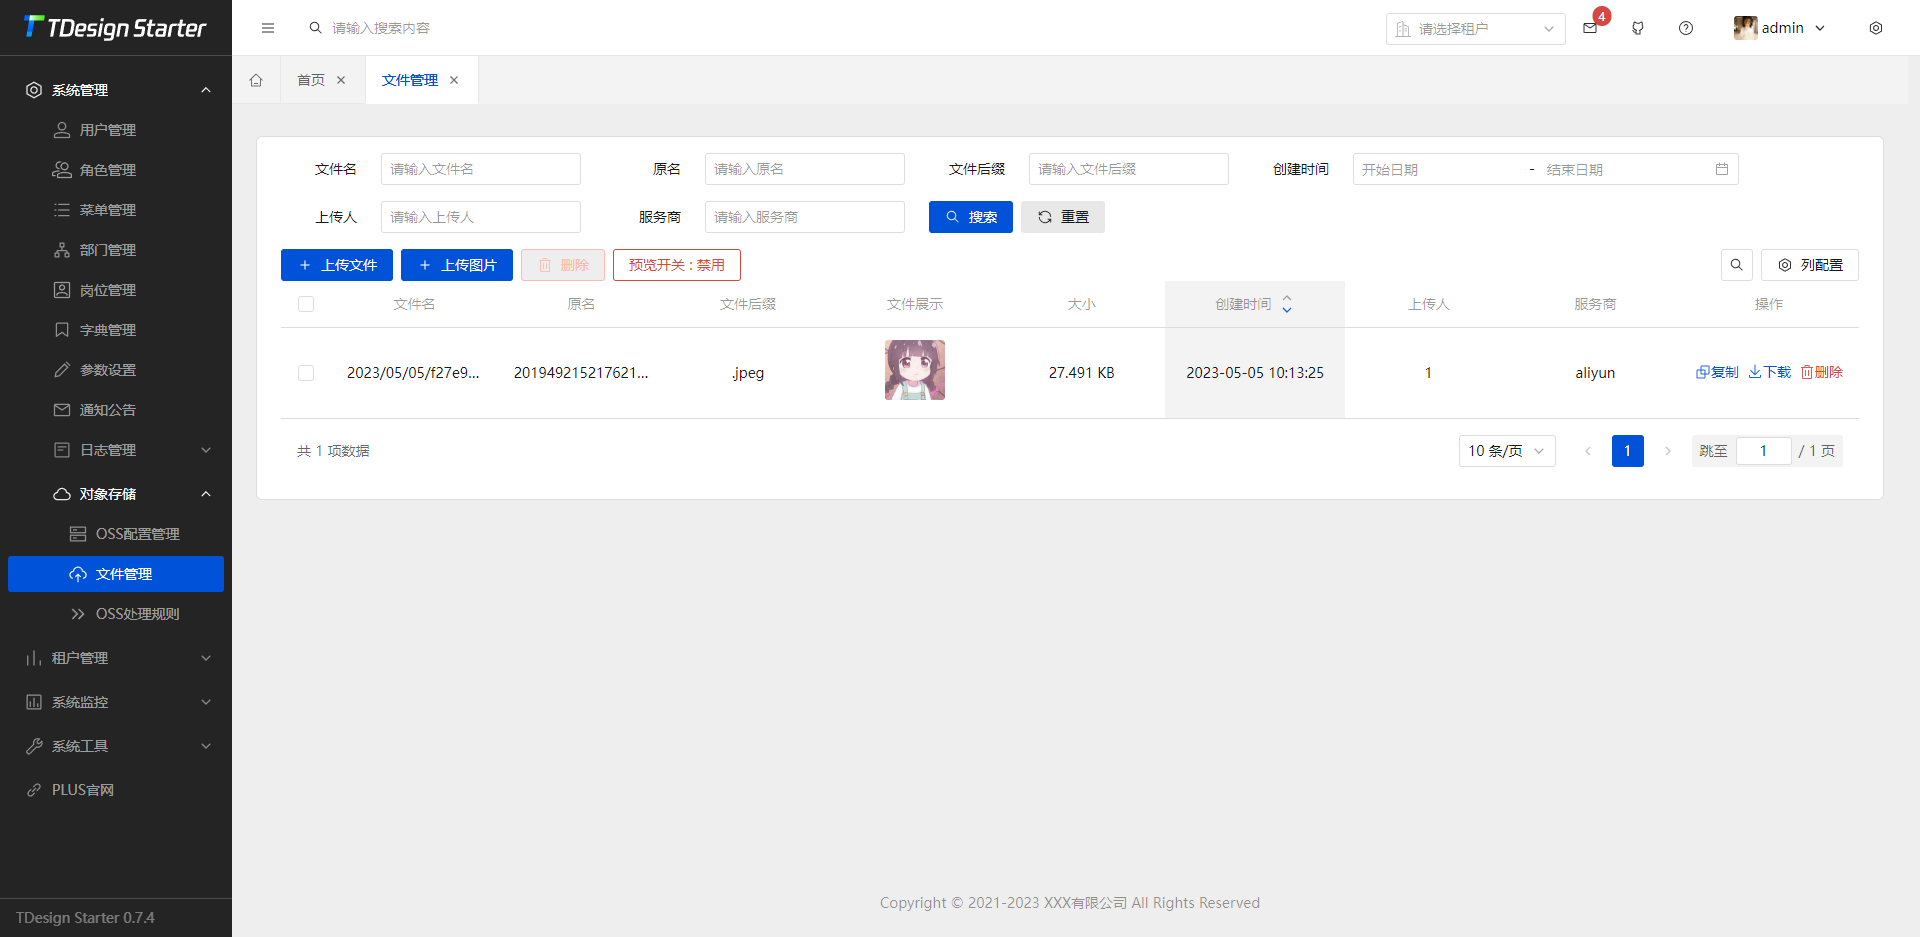
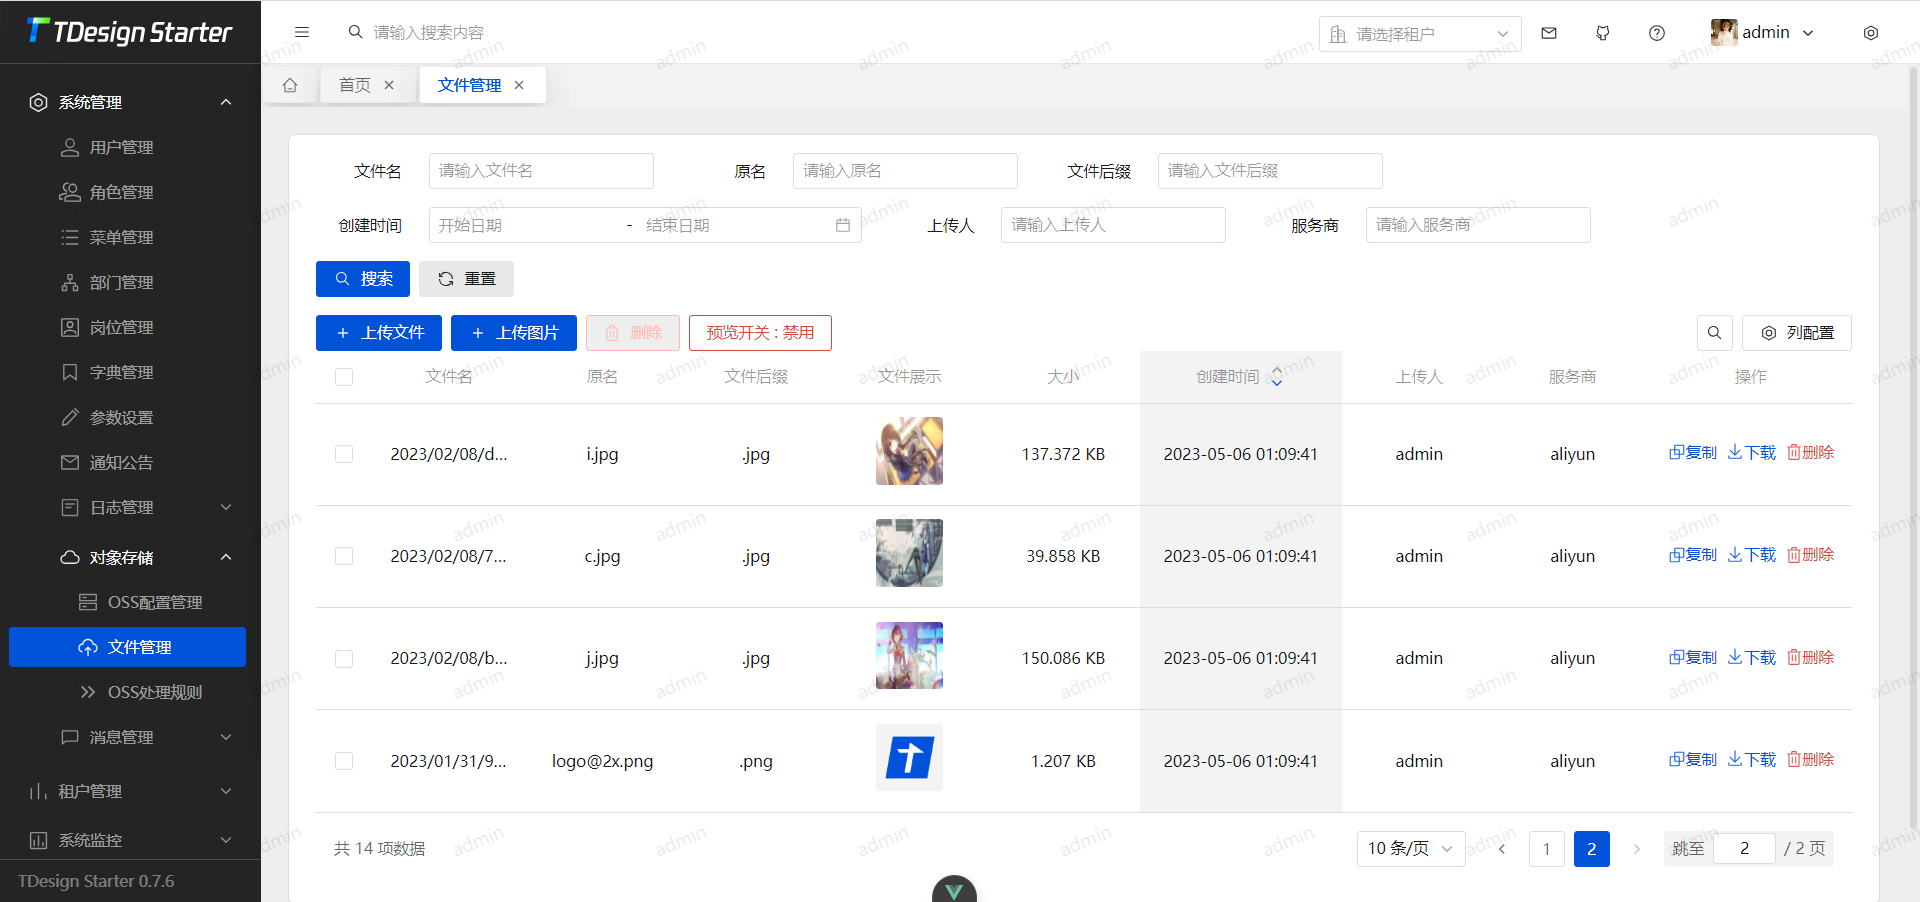
doc: 更新README.md、截图

diff --git a/README.md b/README.md
@@ -71,30 +71,34 @@
 
 ## 业务功能
 
-| 功能      | 介绍                                    |
-|---------|---------------------------------------|
-| 租户管理    | 配置系统租户，支持 SaaS 场景下的多租户功能。             |
-| 用户管理    | 用户是系统操作者，该功能主要完成系统用户配置。               |
-| 部门管理    | 配置系统组织机构（公司、部门、小组），树结构展现支持数据权限。       |
-| 岗位管理    | 配置系统用户所属担任职务。                         |
-| 菜单管理    | 配置系统菜单，操作权限，按钮权限标识等。                  |
-| 角色管理    | 角色菜单权限分配、设置角色按机构进行数据范围权限划分。           |
-| 字典管理    | 对系统中经常使用的一些较为固定的数据进行维护。               |
-| 参数管理    | 对系统动态配置常用参数。                          |
-| 通知公告    | 系统通知公告信息发布维护。                         |
-| 操作日志    | 系统正常操作日志记录和查询；系统异常信息日志记录和查询。          |
-| 登录日志    | 系统登录日志记录查询包含登录异常。                     |
-| OSS配置   | 系统文件上传、下载服务配置                         |
-| 文件管理    | 系统文件上传、下载等管理。                         |
-| OSS处理规则 | 处理例如图片压缩配置                            |
-| 定时任务    | 在线（添加、修改、删除)任务调度包含执行结果日志。             |
-| 代码生成    | 前后端代码的生成（java、html、xml、sql）支持CRUD下载 。 |
-| 系统接口    | 根据业务代码自动生成相关的api接口文档。                 |
-| 服务监控    | 监视集群系统CPU、内存、磁盘、堆栈、在线日志、Spring相关配置等。  |
-| 缓存监控    | 对系统的缓存信息查询，命令统计等。                     |
-| 在线构建器   | 拖动表单元素生成相应的HTML代码。                    |
-| 连接池监视   | 监视当前系统数据库连接池状态，可进行分析SQL找出系统性能瓶颈。      |
-| 使用案例    | 系统的一些功能案例                             |
+| 功能         | 介绍                                                         |
+| ------------ | ------------------------------------------------------------ |
+| 租户管理     | 配置系统租户，支持 SaaS 场景下的多租户功能。                 |
+| 用户管理     | 用户是系统操作者，该功能主要完成系统用户配置。               |
+| 部门管理     | 配置系统组织机构（公司、部门、小组），树结构展现支持数据权限。 |
+| 岗位管理     | 配置系统用户所属担任职务。                                   |
+| 菜单管理     | 配置系统菜单，操作权限，按钮权限标识等。                     |
+| 角色管理     | 角色菜单权限分配、设置角色按机构进行数据范围权限划分。       |
+| 字典管理     | 对系统中经常使用的一些较为固定的数据进行维护。               |
+| 参数管理     | 对系统动态配置常用参数。                                     |
+| 通知公告     | 系统通知公告信息发布维护。                                   |
+| 操作日志     | 系统正常操作日志记录和查询；系统异常信息日志记录和查询。     |
+| 登录日志     | 系统登录日志记录查询包含登录异常。                           |
+| OSS配置      | 系统文件上传、下载服务配置                                   |
+| 文件管理     | 系统文件上传、下载等管理。                                   |
+| OSS处理规则  | 处理例如图片压缩配置                                         |
+| 消息配置     | 配置短信、邮箱、自定义发送源。                               |
+| 消息常量     | 发送消息时，定义的常量字符，不需要关心使用的是模板ID还是内容。 |
+| 消息模板     | 配置关联的消息配置、消息常量，在发送消息时渲染入参到变量中。 |
+| 消息发送记录 | 记录消息发送时间及内容。                                     |
+| 定时任务     | 在线（添加、修改、删除)任务调度包含执行结果日志。            |
+| 代码生成     | 前后端代码的生成（java、html、xml、sql）支持CRUD下载 。      |
+| 系统接口     | 根据业务代码自动生成相关的api接口文档。                      |
+| 服务监控     | 监视集群系统CPU、内存、磁盘、堆栈、在线日志、Spring相关配置等。 |
+| 缓存监控     | 对系统的缓存信息查询，命令统计等。                           |
+| 在线构建器   | 拖动表单元素生成相应的HTML代码。                             |
+| 连接池监视   | 监视当前系统数据库连接池状态，可进行分析SQL找出系统性能瓶颈。 |
+| 使用案例     | 系统的一些功能案例                                           |
 
 ## 演示图例
 
@@ -117,8 +121,12 @@
             <td><img src="./doc/images/字典管理.png" width="1920" /></td>
         </tr>
         <tr>
+            <td><img src="./doc/images/字典数据.png" width="1920" /></td>
             <td><img src="./doc/images/参数管理.png" width="1920" /></td>
+        </tr>
+        <tr>
             <td><img src="./doc/images/通知公告.png" width="1920" /></td>
+            <td><img src="./doc/images/操作日志.png" width="1920" /></td>
         </tr>
         <tr>
             <td><img src="./doc/images/OSS配置管理.png" width="1920" /></td>
@@ -126,11 +134,19 @@
         </tr>
         <tr>
             <td><img src="./doc/images/OSS处理规则.png" width="1920" /></td>
-            <td><img src="./doc/images/操作日志.png" width="1920" /></td>
+            <td><img src="./doc/images/消息配置.png" width="1920" /></td>
         </tr>
         <tr>
+            <td><img src="./doc/images/消息常量.png" width="1920" /></td>
+            <td><img src="./doc/images/消息模板.png" width="1920" /></td>
+        </tr>
+        <tr>
+            <td><img src="./doc/images/消息发送记录.png" width="1920" /></td>
             <td><img src="./doc/images/租户管理.png" width="1920" /></td>
+        </tr>
+        <tr>
             <td><img src="./doc/images/租户套餐管理.png" width="1920" /></td>
+            <td><img src="./doc/images/应用管理.png" width="1920" /></td>
         </tr>
         <tr>
             <td><img src="./doc/images/登录日志.png" width="1920" /></td>
